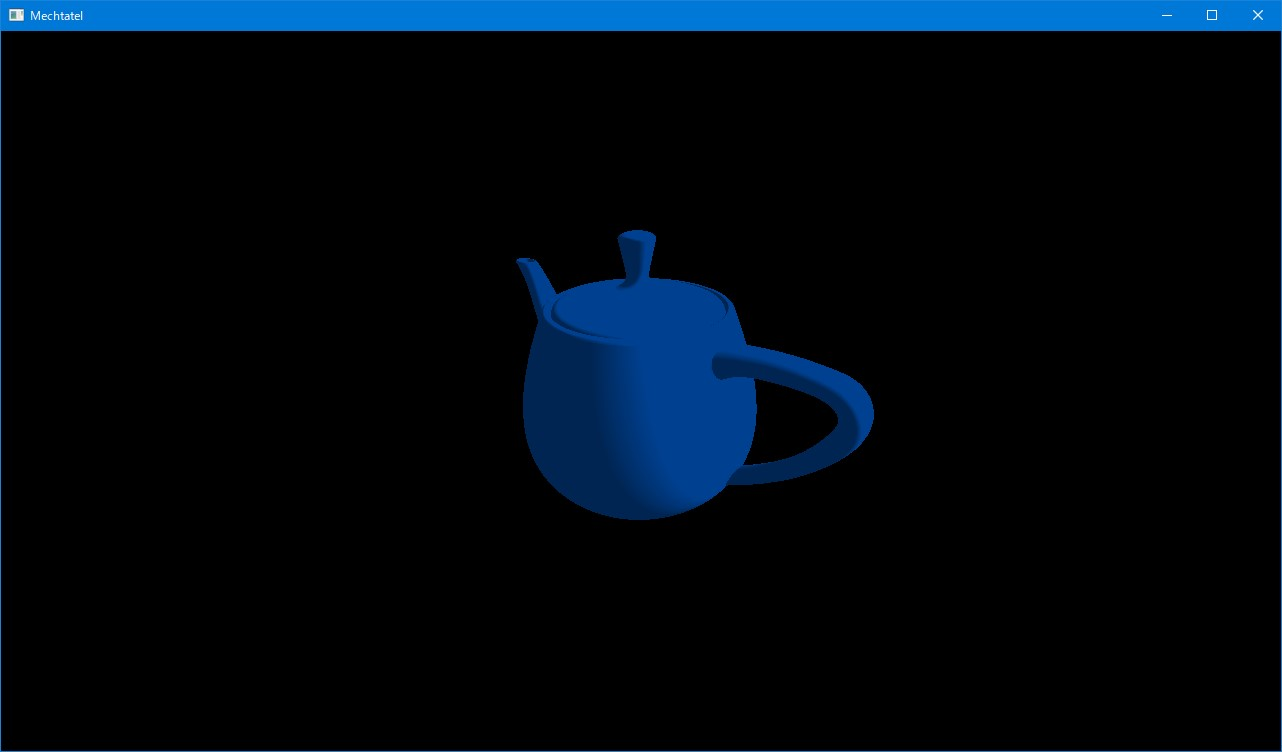
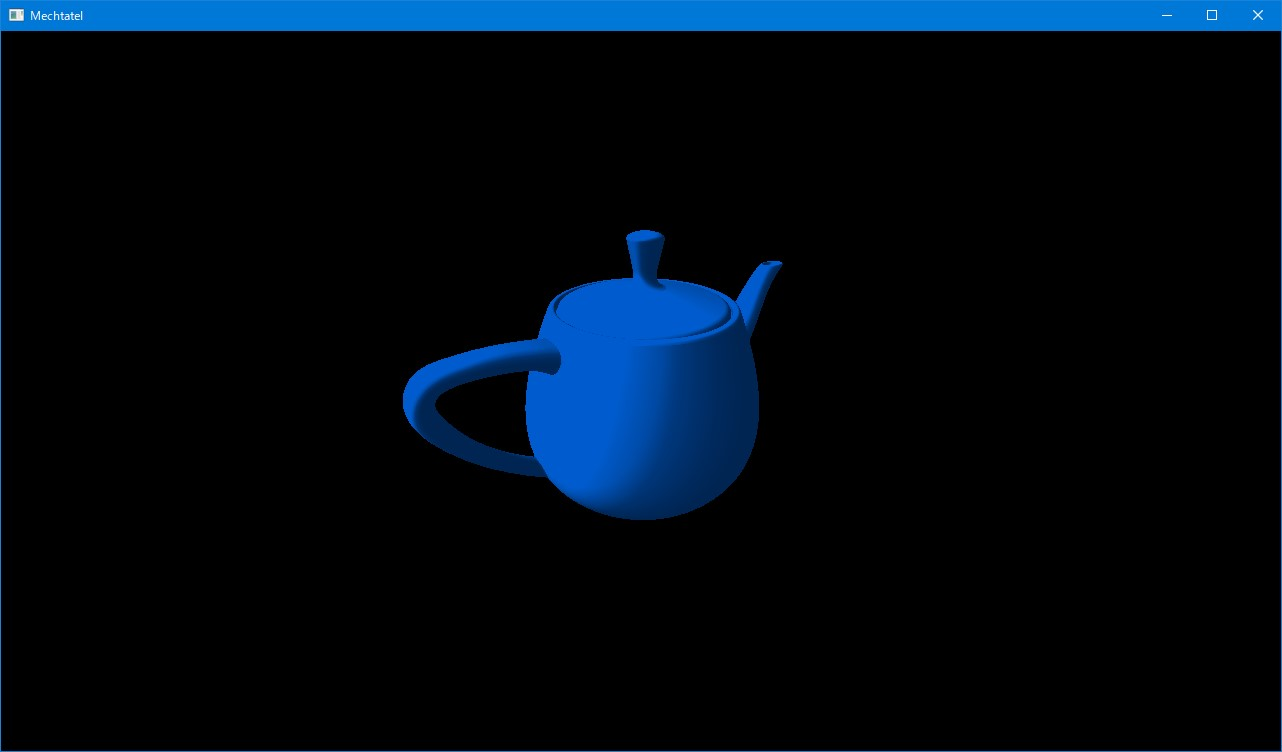
Update README.md

Changed region(s): [[0.312, 0.3059, 0.6864, 0.6729]]

diff --git a/README.md b/README.md
@@ -24,6 +24,12 @@ Mechtatel (露: Мечтатель 英: Dreamer)
 
 ## 報告
 
+### 2021-09-25
+
+シェーディングを実装しました。
+
+<img src="./Image/shading.jpg" alt="Shading" style="zoom:50%;" />
+
 ### 2021-09-20
 
 Nabor (露: Набор 英: Kit)という概念を導入してみました。
